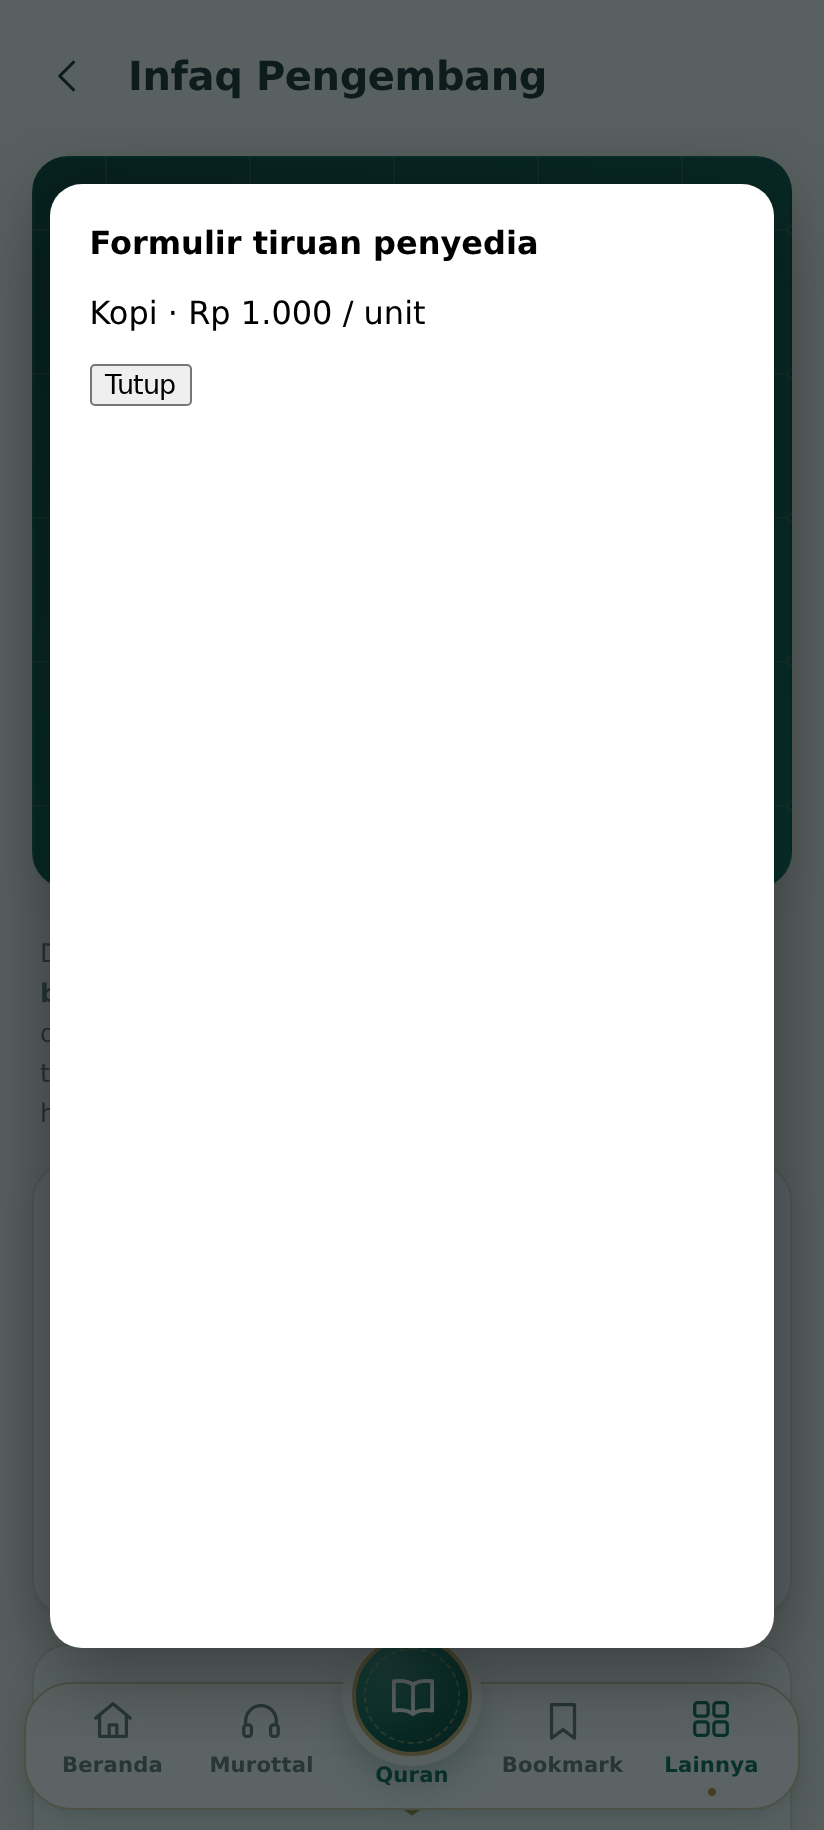
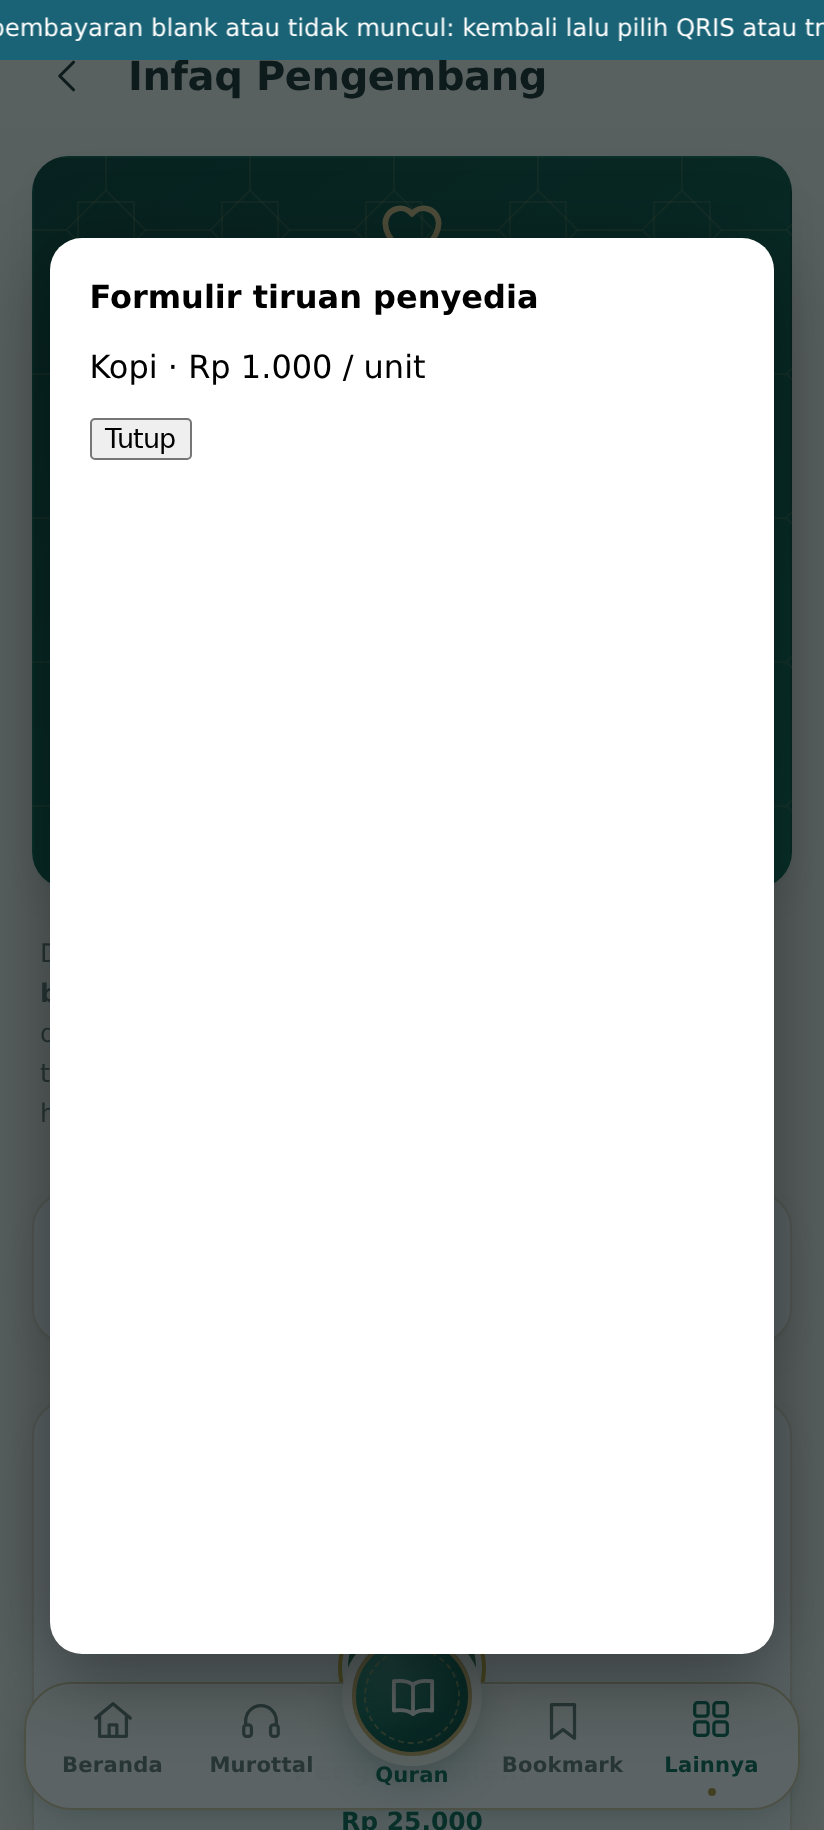
1.3.13: teks berjalan petunjuk pembayaran di atas formulir infaq

diff --git a/src/pages/infaq.js b/src/pages/infaq.js
@@ -30,6 +30,7 @@ export function embedUrl(tipUrl, ref = '') {
   const path = u.pathname.replace(/^\/v1(?=\/)/, '').replace(/\/+$/, '')
   return `${u.origin}/v1${path}/embed/modal?embedId=0&ref=${ref}`
 }
+const TICKER = 'Jika pembayaran blank atau tidak muncul: kembali lalu pilih QRIS atau transfer bank/virtual account. GoPay & ShopeePay tidak dapat berjalan di jendela ini — ketuk tulisan ini untuk membuka halaman pembayaran.'
 const TRAKTEER_ORIGIN = new URL(TRBTN.url).origin
 
 const initial = (name) => (String(name || '').trim().match(/[\p{L}\p{N}]/u) || ['H'])[0].toUpperCase()
@@ -92,6 +93,7 @@ export default function infaq(root) {
     el.setAttribute('aria-modal', 'true')
     el.setAttribute('aria-label', 'Infaq QuranKu')
     el.innerHTML = `<div class="trk-wait" data-wait><span class="spinner" aria-hidden="true"></span><h3>INFAQ QURANKU</h3><p class="muted">Membuka formulir infaq…</p></div>
+      <a class="trk-ticker" href="${TRBTN.url}" target="_blank" rel="noopener noreferrer" data-trk-ticker aria-label="${TICKER}"><span class="trk-ticker-run" aria-hidden="true"><span>${TICKER}</span><span>${TICKER}</span></span></a>
       <iframe title="Formulir infaq" allow="payment *; clipboard-write *" allowtransparency="true" referrerpolicy="strict-origin-when-cross-origin"></iframe>
       <button type="button" class="trk-x" data-trk-close aria-label="Tutup">${icon('close')}</button>`
     const frame = el.querySelector('iframe')

diff --git a/src/styles/main.css b/src/styles/main.css
@@ -3659,3 +3659,59 @@ body.has-player {
   font-weight: 700;
   text-decoration: underline;
 }
+
+/* ===== Infaq 1.3.13: teks berjalan di atas formulir (tidak menutupi formulir) ===== */
+.trk-overlay {
+  display: flex;
+  flex-direction: column;
+  padding-top: var(--safe-t, 0px);
+}
+.trk-overlay iframe {
+  position: static;
+  flex: 1;
+  min-height: 0;
+  height: auto;
+}
+.trk-ticker {
+  flex: none;
+  display: block;
+  overflow: hidden;
+  padding: 7px 0;
+  background: #1a6275;
+  color: #fff;
+  font-size: 0.76rem;
+  line-height: 1.3;
+  white-space: nowrap;
+  text-decoration: none;
+}
+.trk-ticker-run {
+  display: inline-flex;
+  animation: trk-ticker 26s linear infinite;
+}
+.trk-ticker-run span {
+  padding-inline-end: 3rem;
+}
+@keyframes trk-ticker {
+  from {
+    transform: translateX(0);
+  }
+  to {
+    transform: translateX(-50%);
+  }
+}
+.trk-x {
+  top: calc(40px + var(--safe-t, 0px));
+}
+@media (prefers-reduced-motion: reduce) {
+  .trk-ticker {
+    white-space: normal;
+    padding: 7px 12px;
+  }
+  .trk-ticker-run {
+    display: block;
+    animation: none;
+  }
+  .trk-ticker-run span + span {
+    display: none;
+  }
+}

diff --git a/docs/INFAQ.md b/docs/INFAQ.md
@@ -131,3 +131,7 @@ Halaman Infaq kini memuat kartu "Akad & tujuan infaq" sebelum tombol: pemberian 
 ## 1.3.12 — Popup formulir tanpa elemen penghalang
 
 Tombol X milik aplikasi hanya tampil selama formulir memuat (formulir penyedia punya tombol tutup sendiri) dan pita "Pembayaran tidak muncul…" dihapus karena menutupi tombol penyedia. Laporan pengguna: yang terblokir di dalam bingkai hanya dompet digital (GoPay, ShopeePay); QRIS/VA berjalan. Catatan + tautan halaman pembayaran dipindah ke halaman Infaq.
+
+## 1.3.13 — Teks berjalan di atas formulir
+
+Pita tipis berisi teks berjalan (petunjuk bila pembayaran blank; ketuk untuk membuka halaman pembayaran) berada di atas bingkai formulir — bingkai dimulai di bawah pita sehingga tidak ada yang tertutup.

diff --git a/docs/STATUS.md b/docs/STATUS.md
@@ -159,3 +159,7 @@ Halaman Infaq kini memuat kartu "Akad & tujuan infaq" sebelum tombol: pemberian 
 ## 1.3.12 — Popup formulir tanpa elemen penghalang
 
 Tombol X milik aplikasi hanya tampil selama formulir memuat (formulir penyedia punya tombol tutup sendiri) dan pita "Pembayaran tidak muncul…" dihapus karena menutupi tombol penyedia. Laporan pengguna: yang terblokir di dalam bingkai hanya dompet digital (GoPay, ShopeePay); QRIS/VA berjalan. Catatan + tautan halaman pembayaran dipindah ke halaman Infaq.
+
+## 1.3.13 — Teks berjalan di atas formulir
+
+Pita tipis berisi teks berjalan (petunjuk bila pembayaran blank; ketuk untuk membuka halaman pembayaran) berada di atas bingkai formulir — bingkai dimulai di bawah pita sehingga tidak ada yang tertutup.
